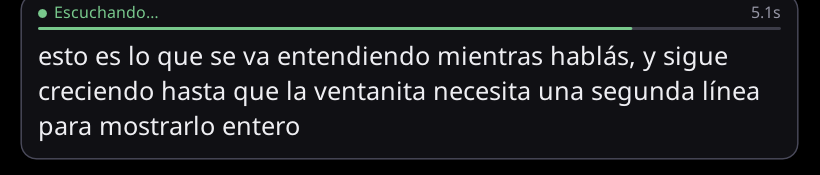
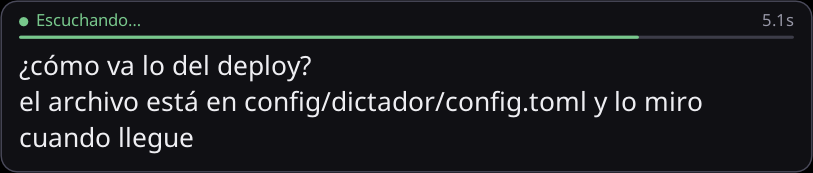
Show the commands already applied while you speak
The little window used to show what the engine heard, raw: you said "abre
pregunta cómo andás signo de pregunta" and read exactly that, then let go
and got "¿cómo andás?". Reading it meant translating in your head what
was about to happen. Now the preview runs through the same compiler the
final text does, so what you read is what's going to be written.

The delivery touch-ups — dropping the final period, the trailing space —
stay out: a partial is still growing, and the period it ends with right
now isn't the end of anything.

The window also honours line breaks now, instead of collapsing them into
spaces. That's what makes "punto y aparte" visible while you dictate: the
new paragraph shows up in the preview the way it will land on screen.

Changed region(s): [[0.0, 0.0, 1.0, 1.0]]

diff --git a/internal/daemon/daemon_test.go b/internal/daemon/daemon_test.go
@@ -62,3 +62,34 @@ func TestEstadosSeNombranParaElLog(t *testing.T) {
 		}
 	}
 }
+
+func TestElPreviewMuestraLosComandosYaAplicados(t *testing.T) {
+	cfg := config.Defaults()
+	got := Preview("abre pregunta cómo andás signo de pregunta", cfg)
+	if got != "¿cómo andás?" {
+		t.Errorf("quedó %q", got)
+	}
+	// Y lo que borra, borrado: si no, mientras hablás ves texto que ya no va.
+	if got := Preview("esto está mal borrá eso esto está bien", cfg); got != "esto está bien" {
+		t.Errorf("quedó %q", got)
+	}
+}
+
+func TestElPreviewDejaElPuntoFinalQueEstáPorCrecer(t *testing.T) {
+	cfg := config.Defaults()
+	cfg.Action.StripFinalPeriod = true
+	cfg.Action.TrailingSpace = true
+	// El parcial se está escribiendo: recortarle el punto de ahora sería
+	// recortar el medio de una oración.
+	if got := Preview("hola mundo.", cfg); got != "hola mundo." {
+		t.Errorf("quedó %q", got)
+	}
+}
+
+func TestConLosComandosApagadosElPreviewEsElTextoCrudo(t *testing.T) {
+	cfg := config.Defaults()
+	cfg.Commands.Enabled = false
+	if got := Preview("hola coma qué tal", cfg); got != "hola coma qué tal" {
+		t.Errorf("quedó %q", got)
+	}
+}

diff --git a/internal/daemon/daemon.go b/internal/daemon/daemon.go
@@ -475,7 +475,21 @@ func (d *Daemon) applyPartial(text string, gen int) {
 	if gen != d.generation || d.state != recording || text == "" {
 		return
 	}
-	d.ui.SetPartial(text)
+	d.ui.SetPartial(Preview(text, d.cfg))
+}
+
+// Preview es cómo se ve el dictado mientras hablás.
+//
+// Los comandos van aplicados acá también: leer "abre pregunta cómo andás signo
+// de pregunta" en la ventanita y que recién al soltar aparezca "¿cómo andás?"
+// obliga a traducir de cabeza lo que va a pasar. Lo que se lee es lo que se va
+// a escribir.
+//
+// Los retoques de entrega —sacar el punto final, el espacio de atrás— quedan
+// afuera a propósito: el parcial todavía está creciendo, y el punto de ahora no
+// es el final de nada.
+func Preview(text string, cfg config.Config) string {
+	return commands.Compile(text, commands.OptionsFrom(cfg)).Text()
 }
 
 // ---- cierre del dictado ---------------------------------------------------

diff --git a/internal/overlay/draw.go b/internal/overlay/draw.go
@@ -203,7 +203,22 @@ func neededHeight(lines []string, fc *faces, m metrics) int {
 }
 
 // wrap corta el texto en líneas que entren en el ancho dado.
+//
+// Los saltos que trae el texto se respetan: cuando el dictado dice "punto y
+// aparte", el párrafo nuevo tiene que verse en la ventanita igual que va a
+// quedar en la pantalla.
 func wrap(text string, face font.Face, width int) []string {
+	var lines []string
+	for _, paragraph := range strings.Split(text, "\n") {
+		lines = append(lines, wrapLine(paragraph, face, width)...)
+	}
+	if len(lines) == 0 {
+		return []string{""}
+	}
+	return lines
+}
+
+func wrapLine(text string, face font.Face, width int) []string {
 	words := strings.Fields(text)
 	if len(words) == 0 {
 		return []string{""}

diff --git a/tests/shots/main.go b/tests/shots/main.go
@@ -61,8 +61,11 @@ func main() {
 		window.SetMeter(0.55, 2.4)
 	})
 	shot("02-parcial", func() {
-		window.SetPartial("esto es lo que se va entendiendo mientras hablás, y sigue " +
-			"creciendo hasta que la ventanita necesita una segunda línea para mostrarlo entero")
+		// Con los comandos ya aplicados, que es como se ve mientras hablás: el
+		// "abre pregunta" que dijiste ya es un ¿, y el "punto y aparte" ya bajó
+		// de renglón.
+		window.SetPartial("¿cómo va lo del deploy?\nel archivo está en " +
+			"config/dictador/config.toml y lo miro cuando llegue")
 		window.SetMeter(0.8, 5.1)
 	})
 	shot("03-transcribiendo", func() {

diff --git a/internal/overlay/draw_test.go b/internal/overlay/draw_test.go
@@ -80,6 +80,13 @@ func TestWrapCortaPorPalabra(t *testing.T) {
 	if got := wrap("   ", fc.body, 200); len(got) != 1 || got[0] != "" {
 		t.Errorf("con texto vacío dio %q", got)
 	}
+
+	// El salto que dictaste con "punto y aparte" se ve en la ventanita igual
+	// que va a quedar escrito.
+	got := wrap("primero.\nsegundo", fc.body, 400)
+	if len(got) != 2 || got[0] != "primero." || got[1] != "segundo" {
+		t.Errorf("el párrafo nuevo se perdió: %q", got)
+	}
 }
 
 func TestFormatSecondsRedondea(t *testing.T) {

diff --git a/README.md b/README.md
@@ -134,6 +134,10 @@ el archivo está en config barra dictador barra config punto toml
    → el archivo está en config/dictador/config.toml
 ```
 
+**The little window shows them applied as you speak**: say "abre pregunta" and
+the `¿` shows up there, say "punto y aparte" and the text drops a line. What you
+read is what's going to be written.
+
 `dictador commands` lists them all, and `--try` runs a phrase through them
 without touching the microphone:
 

diff --git a/README.es.md b/README.es.md
@@ -129,6 +129,10 @@ el archivo está en config barra dictador barra config punto toml
    → el archivo está en config/dictador/config.toml
 ```
 
+**La ventanita ya los muestra aplicados mientras hablás**: cuando decís "abre
+pregunta" ahí aparece el `¿`, y cuando decís "punto y aparte" el texto baja de
+renglón. Lo que leés es lo que se va a escribir.
+
 `dictador commands` los lista todos, y `--try` los prueba sin hablarle al
 micrófono:
 
